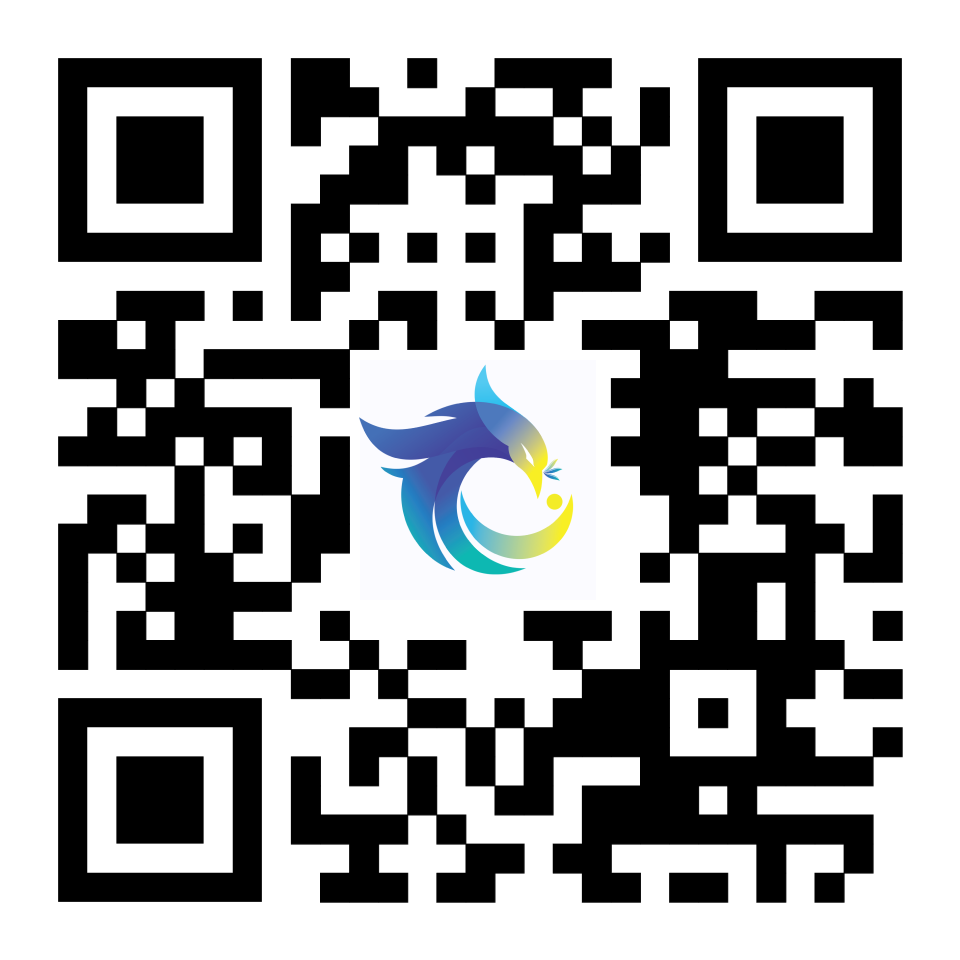
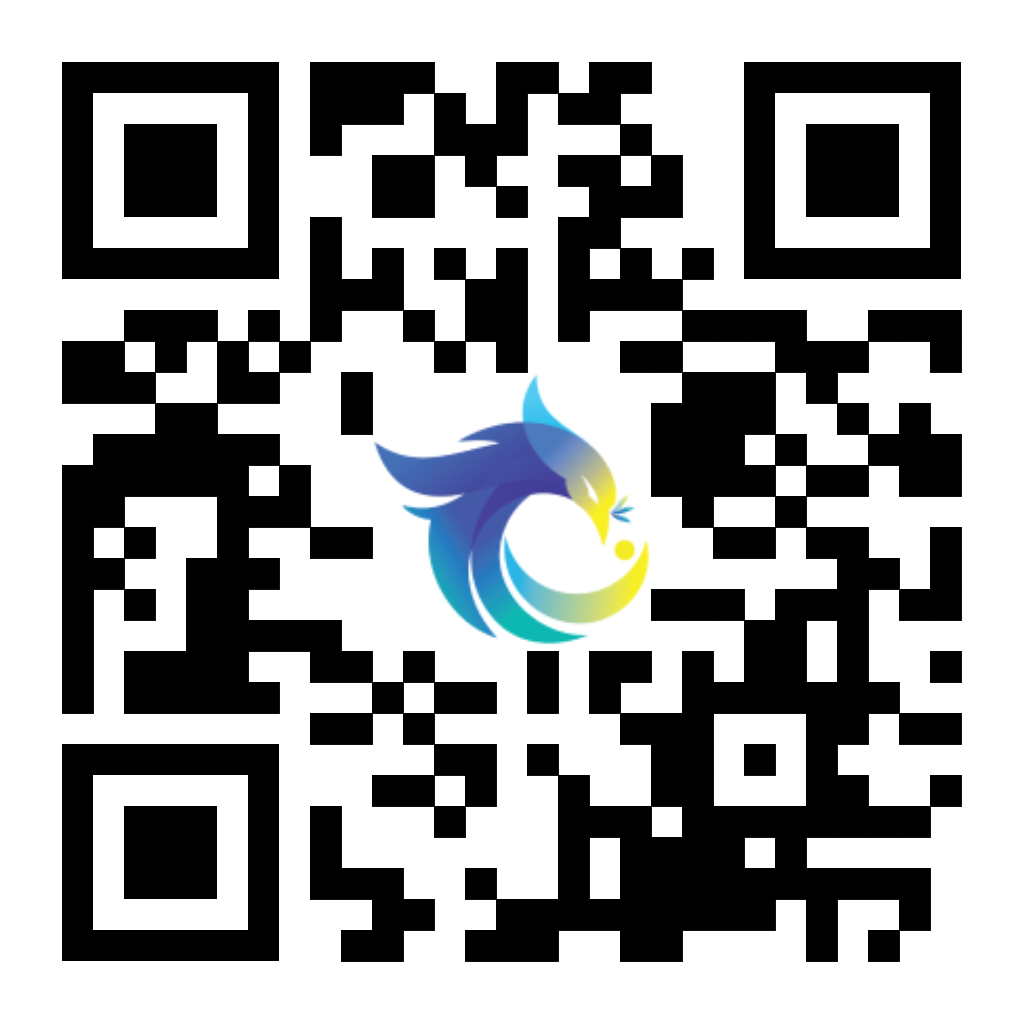
finalização do video

diff --git a/integrantes.html b/integrantes.html
@@ -46,22 +46,20 @@
               
         <div>
           <div class="titulo-secao">
-            <img src="/assets/objetivos.png">
-            <h6>Objetivos</h6>
+            <img src="/assets/integrantes.png">
+            <h6>Integrantes do grupo</h6>
           </div>
-          <br>
-          <p class="sub-titulo container"><strong>Objetivo Geral:</strong></p>
-          
-          <p class="conteudo container">Capacitar os alunos da Educação de Jovens e Adultos (EJA) a compreenderem a alfabetização como uma ferramenta vital não apenas para a leitura e escrita, mas também como uma vantagem estratégica no competitivo mercado de trabalho.</p>
-
-          <p class="sub-titulo container"><strong>Objetivos Específicos:</strong></p>
-
-
-          <p class="conteudo container">Explorar a interconexão entre alfabetização e exigências profissionais.
-            Demonstrar como as habilidades de leitura e escrita são fundamentais para o sucesso no cenário profissional.
-            Capacitar os alunos a utilizar a alfabetização como uma ferramenta estratégica em suas trajetórias profissionais.
-            Compreender a importância da criação de um currículo impactante para destacar habilidades e experiências.
-            Explorar, de maneira prática, como apresentar conquistas de forma atraente para os potenciais empregadores.</p>
+          <ul>
+            <li>Bianca Campos Aleixo</li>
+            <li>Caio Henrique de Araújo Cruz</li>
+            <li>Edilson Depman Junior</li>
+            <li>Natalia Aparecida da Silva</li>
+            <li>Rafaela C. Barbosa</li>
+            <li>Samara Stefani de Oliveira</li>
+            <li>Teresinha de Paula Souza</li>
+            <li>Viviane M. Rocha</li>
+        </ul>
+        
 
         </div>
       </section> 

diff --git a/videoaula.html b/videoaula.html
@@ -50,12 +50,19 @@
             <h6>Videoaula</h6>
           </div>
           
-          <p class="conteudo container">"Seja bem-vindo a mais uma aula que vai enriquecer o seu conhecimento. Hoje, exploraremos um tópico fundamental que irá aprimorar suas habilidades e abrir portas para novas oportunidades. Vamos começar!"</p>
-
-          <!-- <iframe width="300" height="225"
-          src="https://www.youtube.com/embed/tgbNymZ7vqY">
-          </iframe> -->
+          <p class="conteudo">"Seja bem-vindo a mais uma aula que vai enriquecer o seu conhecimento. Hoje, exploraremos um tópico fundamental que irá aprimorar suas habilidades e abrir portas para novas oportunidades. Vamos começar!"</p>
           
+          <!-- <div class="flex mb-3">
+            <iframe width="420" height="240" src="https://www.youtube.com/embed/l9hlEo9ekS0">
+            </iframe>
+          </div> -->
+          <div class="flex mb-3">
+            <iframe id="video"  src="https://www.youtube.com/embed/l9hlEo9ekS0">
+            </iframe>
+          </div>
+          
+
+
           <p class="conteudo container">Tópicos Habilidades de Comunicação</p>
           <ul class="topicos">
             <li class="conteudo">Oratória e falar em público.</li>
@@ -109,6 +116,9 @@
           <a href="/referencias.html"><img src="/assets/referencias.png" alt="Referências">Referências</a>
         </div>
         
+        <div class="offcanvas-items">
+          <a href="/integrantes.html"><img src="/assets/integrantes.png" alt="Referências">Integrantes</a>
+        </div>
 
       </div>
       <div class="offcanvas-footer">

diff --git a/qrcode.html b/qrcode.html
@@ -51,7 +51,7 @@
           </div>
           <p class="conteudo container">Lorem ipsum dolor sit amet consectetur adipisicing elit. Distinctio quasi tempora nam provident hic maiores reprehenderit repellendus minima aperiam ab esse est recusandae molestias excepturi, sit totam quia nulla quidem?</p>
           
-          <a class="qr-code" href="https://www.youtube.com.br" target="_blank"><img src="assets/qr-code.png" alt="QR Code"></a>
+          <a class="qr-code" href="https://www.youtube.com/watch?v=l9hlEo9ekS0" target="_blank"><img src="assets/qr-code.png" alt="QR Code"></a>
           <p class="legenda">Clique ou escaneie o QR Code para abrir o Youtube.</p>
 
         </div>
@@ -97,6 +97,10 @@
 
         <div class="offcanvas-items">
           <a href="/referencias.html"><img src="/assets/referencias.png" alt="Referências">Referências</a>
+        </div>
+
+        <div class="offcanvas-items">
+          <a href="/integrantes.html"><img src="/assets/integrantes.png" alt="Referências">Integrantes</a>
         </div>
         
 

diff --git a/styles.css b/styles.css
@@ -141,7 +141,7 @@ nav .interrogacao {
 }
 
 #capa-curso {
-  margin-top: 5rem;
+  margin-top: 3rem;
 
   font-family: var(--title-family);
   font-style: normal;
@@ -179,7 +179,7 @@ nav .interrogacao {
 
 #uniso-logo {
   width: 200px;
-  margin-top: 70px;
+  margin-top: 60px;
 }
 
 #capa-btn {
@@ -195,7 +195,7 @@ nav .interrogacao {
   border-radius: .5rem;
   padding: .5rem 3rem;
 
-  margin-top: 7.7rem;
+  margin-top: 4.7rem;
 }
 /* ------ FIM CAPA ------ */
 
@@ -270,6 +270,7 @@ section {
   border-radius: 20px;
   width: 57%;
   padding: 1rem 0;
+  max-width: 500px;
 }
 
 .divider {
@@ -736,6 +737,20 @@ E3CFFF - 29/11
   margin-top: 1rem;
 }
 
+
+/* ------ VIDEO AULA ------ */
+/* #video {
+  width: 70%;
+  height: 10vh;
+} */
+iframe {
+  aspect-ratio: 16/9;
+  width: 100%;
+  max-width: 720px;
+}
+
+
+
 /* Mobile first desing */
 @media (max-width: 767px) {
   .container {
@@ -745,3 +760,10 @@ E3CFFF - 29/11
     max-width: 70%;
   }
 }
+
+/* @media (max-width: 359px) {
+  #video {
+    width: 70%;
+    height: 240px;
+  }
+} */

diff --git a/home.html b/home.html
@@ -120,6 +120,10 @@
         <div class="offcanvas-items">
           <a href="/referencias.html"><img src="/assets/referencias.png" alt="Referências">Referências</a>
         </div>
+
+        <div class="offcanvas-items">
+          <a href="/integrantes.html"><img src="/assets/integrantes.png" alt="Referências">Integrantes</a>
+        </div>
         
 
       </div>

diff --git a/mapa.html b/mapa.html
@@ -193,6 +193,10 @@
         <div class="offcanvas-items">
           <a href="/referencias.html"><img src="/assets/referencias.png" alt="Referências">Referências</a>
         </div>
+
+        <div class="offcanvas-items">
+          <a href="/integrantes.html"><img src="/assets/integrantes.png" alt="Referências">Integrantes</a>
+        </div>
         
 
       </div>

diff --git a/metodologia.html b/metodologia.html
@@ -117,6 +117,10 @@
         <div class="offcanvas-items">
           <a href="/referencias.html"><img src="/assets/referencias.png" alt="Referências">Referências</a>
         </div>
+
+        <div class="offcanvas-items">
+          <a href="/integrantes.html"><img src="/assets/integrantes.png" alt="Referências">Integrantes</a>
+        </div>
         
 
       </div>

diff --git a/referencias.html b/referencias.html
@@ -105,6 +105,10 @@
         <div class="offcanvas-items">
           <a href="/referencias.html"><img src="/assets/referencias.png" alt="Referências">Referências</a>
         </div>
+
+        <div class="offcanvas-items">
+          <a href="/integrantes.html"><img src="/assets/integrantes.png" alt="Referências">Integrantes</a>
+        </div>
         
 
       </div>

diff --git a/README.md b/README.md
@@ -13,9 +13,10 @@
 <ul>
     <li>Bianca Campos Aleixo</li>
     <li>Caio Henrique de Araújo Cruz</li>
-    <li>""</li>
+    <li>Edilson Depman Junior</li>
     <li>Natalia Aparecida da Silva</li>
     <li>Rafaela C. Barbosa</li>
     <li>Samara Stefani de Oliveira</li>
+    <li>Teresinha de Paula Souza</li>
     <li>Viviane M. Rocha</li>
 </ul>
